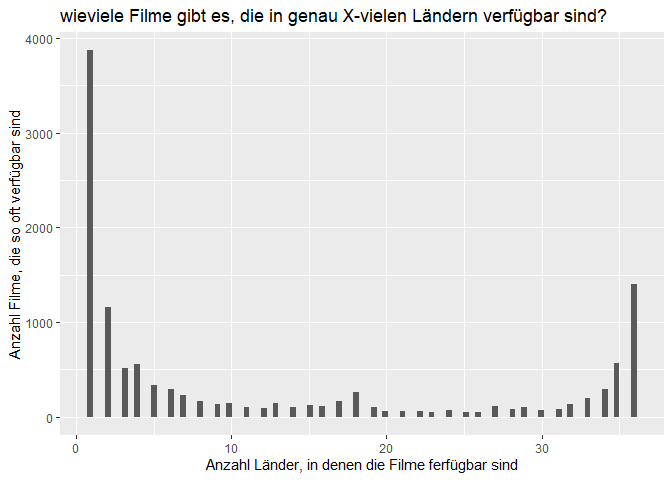
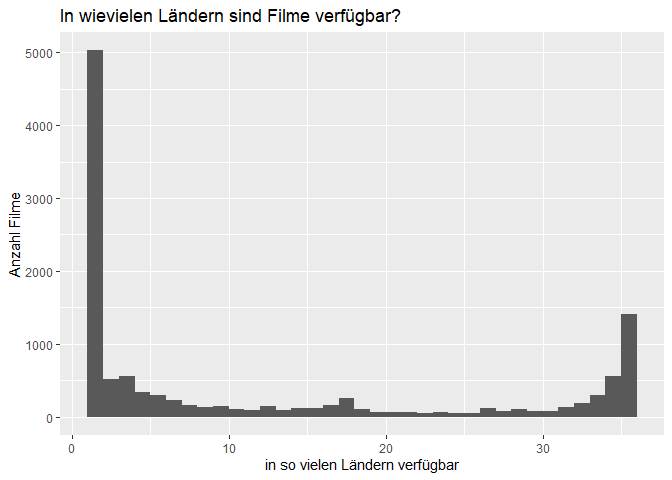
aufgeräumt

diff --git a/Bericht_Henke_Keil_Reichmann.md b/Bericht_Henke_Keil_Reichmann.md
@@ -2,7 +2,7 @@ R-Projekt
 ================
 Márk Reichmann, Simon Keil, Daniel Henke
 
-Fragestunde: reicht eine Regression?
+Fragestunde: reicht eine Regression? -> ja!
 
 *Netflix im zeitlichen Verlauf*
 
@@ -133,43 +133,10 @@ Ländern mit weniger Filmtiteln zu erkennen ist.
 Eine naheliegende Folgerung wäre, dass die Auswahl an Filmen in vielen
 Ländern ähnlich ist. Das würde bedeuten, dass die meisten Filme in fast
 allen Ländern verfügbar sind. Dem ist aber nicht so:
-
-    ## # A tibble: 13 x 3
-    ##    Title                       year     n
-    ##    <chr>                      <dbl> <int>
-    ##  1 "Champions"                 2018     2
-    ##  2 "Gold"                      2017     3
-    ##  3 "Heidi"                     2015     2
-    ##  4 "I Am"                      2011     2
-    ##  5 "Kakegurui"                 2018     2
-    ##  6 "Kingdom"                   2019     3
-    ##  7 "Love and Lies"             2017     2
-    ##  8 "Meridian"                  2016     2
-    ##  9 "Midnight Diner"            2015     3
-    ## 10 "My Babysitters a Vampire"  2011     3
-    ## 11 "Revenge"                   2018     2
-    ## 12 "Spark"                     2017     2
-    ## 13 "Ver\xf3nica"               2017     2
-
-    ## # A tibble: 0 x 3
-    ## # ... with 3 variables: Title <chr>, year <dbl>, n <int>
-
-    ## # A tibble: 52 x 4
-    ##    country    year Title                             Genre                      
-    ##    <chr>     <dbl> <chr>                             <chr>                      
-    ##  1 Argentina  2009 Cloudy with a Chance of Meatballs Animation, Adventure, Come~
-    ##  2 Argentina  2017 Cloudy with a Chance of Meatballs Animation, Comedy, Family,~
-    ##  3 Australia  2009 Cloudy with a Chance of Meatballs Animation, Adventure, Come~
-    ##  4 Australia  2017 Cloudy with a Chance of Meatballs Animation, Comedy, Family,~
-    ##  5 Belgium    2009 Cloudy with a Chance of Meatballs Animation, Adventure, Come~
-    ##  6 Belgium    2017 Cloudy with a Chance of Meatballs Animation, Comedy, Family,~
-    ##  7 Brazil     2009 Cloudy with a Chance of Meatballs Animation, Adventure, Come~
-    ##  8 Brazil     2017 Cloudy with a Chance of Meatballs Animation, Comedy, Family,~
-    ##  9 Canada     2009 Cloudy with a Chance of Meatballs Animation, Adventure, Come~
-    ## 10 Colombia   2009 Cloudy with a Chance of Meatballs Animation, Adventure, Come~
-    ## # ... with 42 more rows
-
 ![](Bericht_Henke_Keil_Reichmann_files/figure-gfm/unnamed-chunk-8-1.png)<!-- -->
+Tatsächlich ist ein Großteil der Medien nur in einem einzigen Land
+abrufbar, das Angebot von netflix scheint also recht speziell auf
+einzelne Länder zugeschnitten zu sein.
 
 **Untersuchung Internationalität vs. Veröffentlichungsjahr**
 
